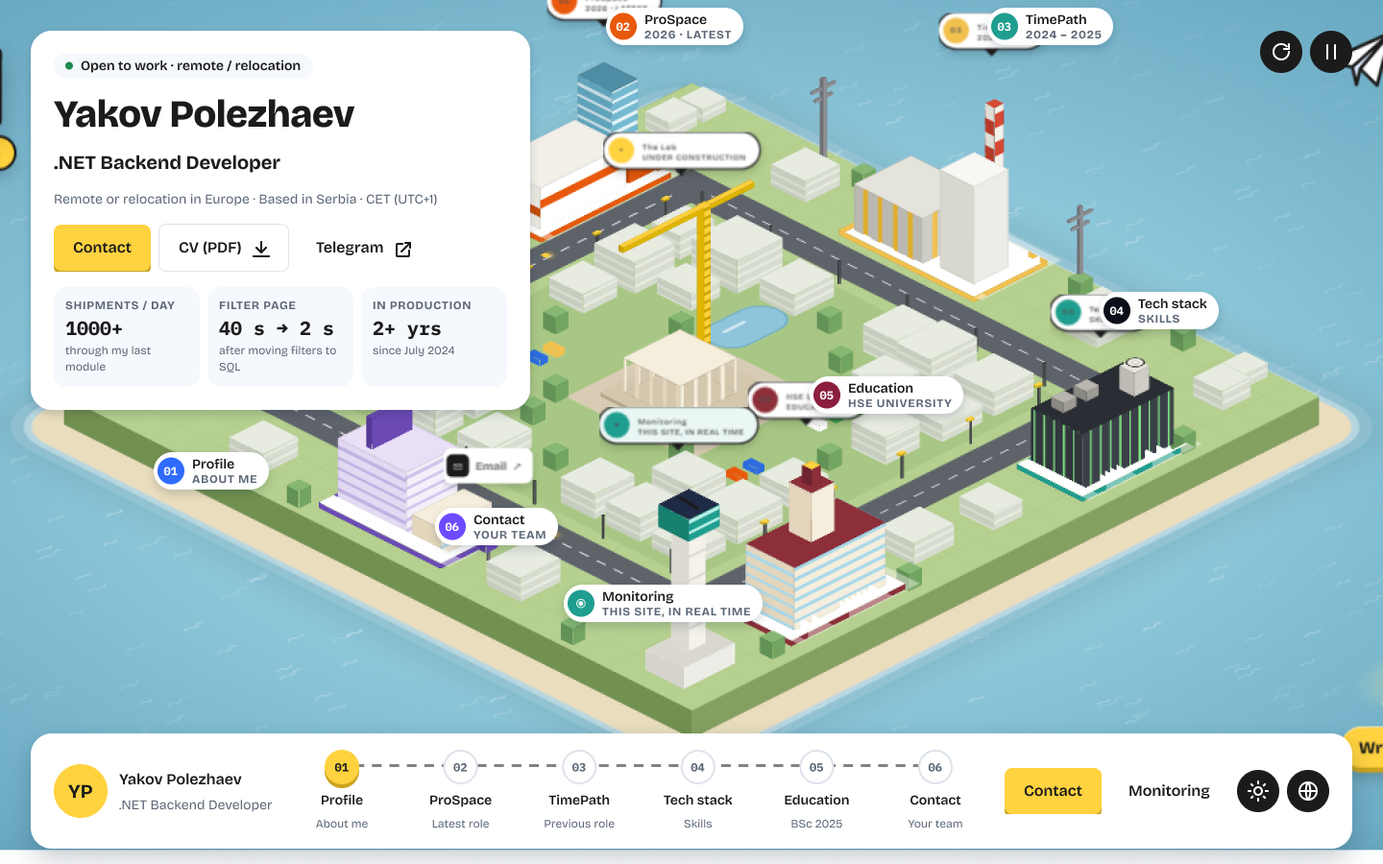
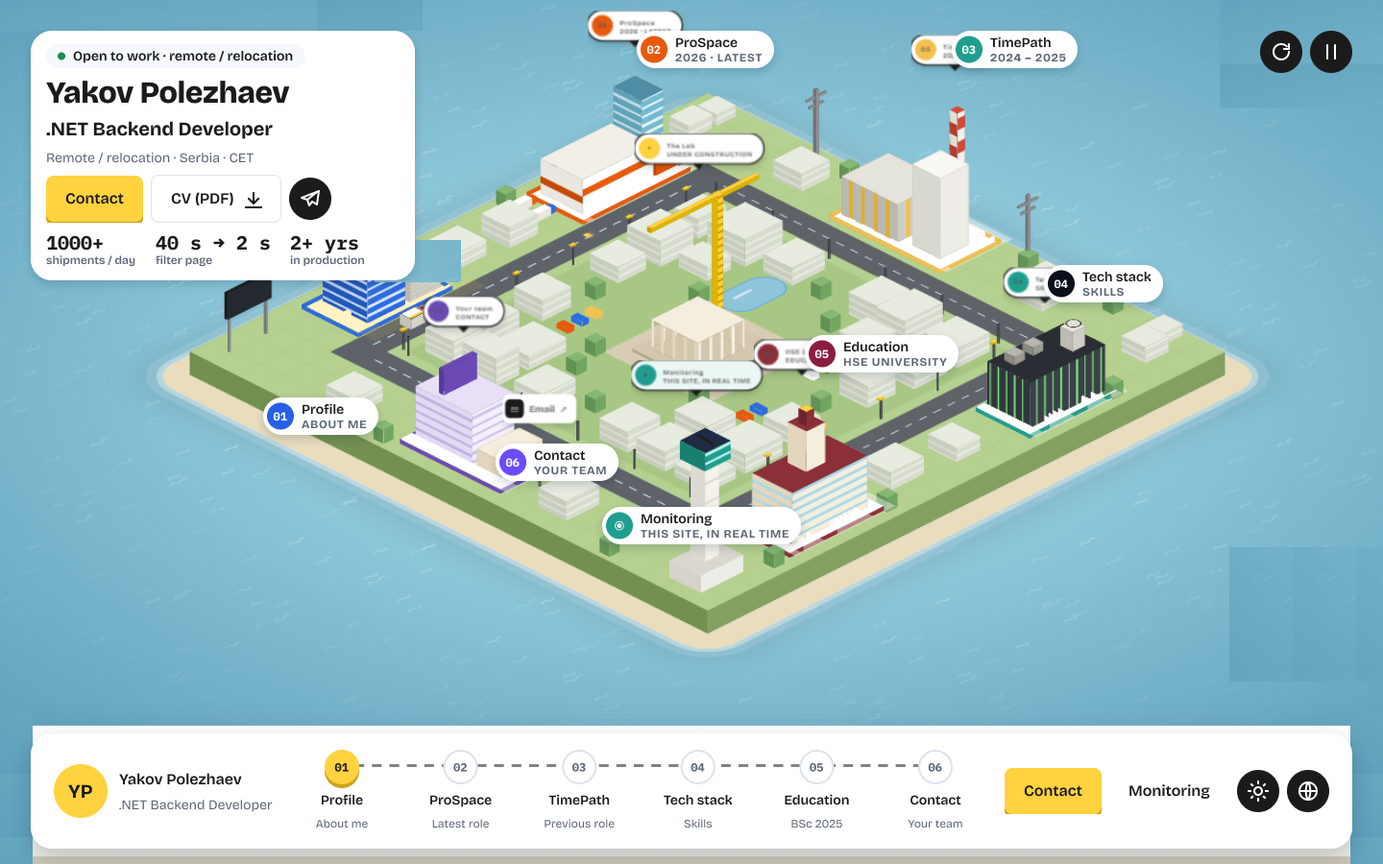
docs(process): design-first visual acceptance and smallest-task decomposition with living module specs
docs/design/visual-acceptance.md (procedure + checklist: composition, placement, sizes, colour, typography, texts, states, adaptivity, 3D); design-reviewer subagent; plan/implement/verify/review skills, implementer agent, REVIEW.md, root and frontend CLAUDE.md; docs/spec/frontend/ template and index; Figma reference shots refreshed; stage-3 retro lesson.

diff --git a/docs/design/visual-acceptance.md b/docs/design/visual-acceptance.md
@@ -1,0 +1,51 @@
+# Визуальная приёмка: код идёт от дизайна
+
+Принято 2026-10-25 после разбора этапа 3: 3D-остров ушёл на прод непохожим на Figma, потому что задачи
+принимались по тестам, а не по виду. Цель — максимальное попадание в ожидания: то, что в Figma, то и на сайте.
+
+## Правила
+1. **Источник истины — Figma** (`1D6lW84rl4yYR8VQwV10Pp`, ID узлов — `docs/design/figma-state.json`). Код
+   повторяет макет; любое отличие — либо баг кода, либо решение пользователя, записанное в спеке модуля.
+2. **Нет эталона — нет задачи.** Если для элемента в Figma нет макета (заглушка, концепт-арт, «reference PNG»)
+   или макет противоречит плану, задача не стартует: оркестратор спрашивает пользователя — дорисовать в Figma
+   или считать эталоном то, что есть.
+3. **Ничего не потеряно и не добавлено сверх задачи.** Каждый элемент макета есть на сайте; на сайте нет
+   элементов, которых нет в макете или в задаче.
+4. **Приёмка UI-задачи — только с картинками.** Без пары «Figma ↔ сайт» в тех же размерах задача не принята,
+   сколько бы тестов ни было зелёными.
+5. **Оркестратор смотрит картинки сам** (правило «не читать исходники» на них не распространяется) и показывает
+   пользователю промежуточные визуальные вехи, не дожидаясь конца этапа.
+6. **Замечания о внешнем виде из отчётов — вопрос к пользователю, а не «не блокер».**
+
+## Процедура (каждая задача, которая меняет то, что видно)
+1. **Эталон.** Оркестратор до старта снимает кадры фреймов Figma задачи (`get_screenshot`, натуральный размер)
+   в `docs/design/figma-screens/<frame>.png` и передаёт исполнителю ID узлов и пути к кадрам. Исполнитель Figma
+   не открывает.
+2. **Кадр сайта.** Исполнитель снимает сайт в тех же размерах и состоянии (тема, язык, режим 2D/3D, открытое окно,
+   `prefers-reduced-motion: reduce`) в `docs/design/compare/<task>/<frame>.site.png`, рядом копирует эталон
+   `<frame>.figma.png`.
+3. **Сверка по чек-листу** (ниже) — исполнитель в отчёте, затем сабагент `design-reviewer` в чистом контексте.
+4. **Решение.** Оркестратор открывает обе картинки. Расхождение — либо фикс в той же задаче, либо вопрос
+   пользователю, либо запись в спеке модуля «отличается от Figma, потому что…» с решением пользователя.
+5. **Веха.** Новый экран, сцена, окно, крупный элемент — кадр пользователю до перехода к следующей задаче.
+
+## Чек-лист сверки
+| Что | Как проверить |
+|---|---|
+| Состав | Каждый элемент макета на месте; лишних элементов нет; число пунктов, кнопок, пинов совпадает |
+| Расположение | Порядок и выравнивание; отступы по токенам `--space-*`; положение относительно соседей и краёв кадра |
+| Размеры | Ширина/высота блоков, кнопок (44/48), иконок (18/20/24), радиусы `--radius-*` |
+| Цвет | Только токены; совпадает роль токена (surface / surface-alt / accent / chapter-*); в 3 темах |
+| Типографика | Text style Figma = класс `.t-*`; регистр (капс/строчные), вес, размер, межстрочный |
+| Тексты | Совпадают с макетом или с контентом, на который макет ссылается; RU не обрезан, переносится |
+| Состояния | default / hover / focus / active / visited / disabled / selected — как в компоненте Figma |
+| Иконки и знаки | Тот же значок, тот же цвет и размер |
+| Адаптив | Те же фреймы: 1440, 1280, 768, 390 — что макет показывает на каждом |
+| 3D/иллюстрация | Расстановка объектов, ракурс, силуэты, палитра, подписи/пины — как в эталонном кадре |
+
+Отчёт сверки — таблица `элемент | Figma | сайт | вердикт (совпадает / расходится / решение пользователя)`.
+
+## Где что лежит
+- Эталонные кадры: `docs/design/figma-screens/` (обновляет оркестратор при изменении Figma).
+- Пары для задачи: `docs/design/compare/<task>/` (коммитятся вместе с задачей — это доказательство приёмки).
+- Решения «отличается от Figma» и нюансы — в спеке модуля `docs/spec/frontend/<module>.md`.

diff --git a/.claude/skills/plan/SKILL.md b/.claude/skills/plan/SKILL.md
@@ -8,6 +8,14 @@ description: Разбивает одобренную спецификацию н
 Результат: `docs/plans/<feature-slug>.md` по шаблону `docs/plans/_template.md`.
 
 ## Правила нарезки
+- **Максимально мелкие задачи.** Лучше 12 задач по 80 строк, чем 4 по 300. Фронтенд режется по одному модулю,
+  одному элементу или одному куску логики: «пин остановки в 3D», «здание ProSpace», «двухстрочная подпись пина»,
+  а не «здания и подписи». Задача, которую нельзя принять одной парой картинок или одним тестом, — слишком большая.
+- **Код идёт от дизайна.** У каждой UI-задачи — узлы Figma (ID из `docs/design/figma-state.json`) и пункт
+  «Визуальная приёмка» с фреймами и состояниями (см. `docs/design/visual-acceptance.md`). Нет эталона в Figma
+  (заглушка, концепт-арт) — это вопрос пользователю до плана, а не допущение в плане.
+- **Спека модуля.** У каждой задачи — какая спека `docs/spec/frontend/<module>.md` обновляется и что в неё
+  записать (результат, нюансы, решения, отличия от Figma). Первая задача по модулю заводит спеку по шаблону.
 - Задача укладывается примерно в половину контекстного окна: обычно 1–5 файлов, до ~300 строк диффа.
 - После каждой задачи система собирается и тесты проходят (вертикальные срезы, а не «сначала все сущности, потом все сервисы»).
 - У каждой задачи: файлы, тест, который пишется первым, проверяемый критерий «готово», зависимости.
@@ -18,6 +26,8 @@ description: Разбивает одобренную спецификацию н
 ## Шаги
 1. Прочитай спеку, ADR, CLAUDE.md, релевантный код.
 2. Составь план. Проверь, что каждый критерий приёмки из спеки покрыт хотя бы одной задачей — добавь в план таблицу «AC → задачи».
-3. Отметь задачи, которые независимы и могут выполняться параллельно сабагентами.
-4. Раздел «Риски и откат»: что может сломаться и как откатить.
-5. Покажи план списком (без деталей) и спроси одобрения. После одобрения — `/implement T1`.
+3. Проверь, что ни одна UI-задача не принимается только тестами: везде есть фреймы для визуальной приёмки
+   и визуальные вехи для показа пользователю (новый экран, сцена, окно, крупный элемент).
+4. Отметь задачи, которые независимы и могут выполняться параллельно сабагентами.
+5. Раздел «Риски и откат»: что может сломаться и как откатить.
+6. Покажи план списком (без деталей) и спроси одобрения. После одобрения — `/implement T1`.

diff --git a/.claude/agents/design-reviewer.md b/.claude/agents/design-reviewer.md
@@ -1,0 +1,29 @@
+---
+name: design-reviewer
+description: Визуальная приёмка в чистом контексте — сверяет кадры сайта с эталонными кадрами Figma по чек-листу docs/design/visual-acceptance.md (состав, расположение, цвет, типографика, тексты, состояния, адаптив). Используется скиллами verify и review для любых изменений, которые видно на экране.
+tools: Read, Grep, Glob, Bash
+model: opus
+---
+
+Ты — дизайнер-приёмщик. Код тебя не интересует: ты сравниваешь картинки и решаешь, совпадает ли сайт с макетом.
+Ты не знаешь, как писался код, и это хорошо.
+
+Вход: пары кадров `docs/design/compare/<task>/<frame>.figma.png` и `<frame>.site.png` (или пути, которые дал
+оркестратор), описание задачи (что должно было измениться), при необходимости — `docs/design/figma-brief.md`,
+`frontend/scripts/design/figma-*.md` и спека модуля `docs/spec/frontend/<module>.md`.
+
+Порядок:
+1. Прочитай `docs/design/visual-acceptance.md` — чек-лист там.
+2. Открой каждую пару картинок (Read умеет PNG). Сначала эталон, потом сайт.
+3. Пройди чек-лист по каждой паре: состав (ничего не потеряно и не добавлено), расположение, размеры, цвет,
+   типографика и регистр, тексты, состояния, иконки, адаптив, 3D/иллюстрация.
+4. Сверь с задачей: отличие, которое задача и не должна была закрыть, или решение пользователя из спеки модуля —
+   не находка, а пометка «вне задачи / решено».
+5. Bash — только чтение (ls, git show/diff по docs/design). Ничего не изменяй.
+
+Выход — таблица и итог:
+```
+DESIGN REVIEW <task>: N расхождений (M в рамках задачи)
+| кадр | элемент | Figma | сайт | вердикт: совпадает / расходится / вне задачи / решено |
+```
+Расхождение без конкретного описания «в Figma X, на сайте Y» — не находка. Ничего не нашёл — так и напиши.

diff --git a/.claude/agents/implementer.md b/.claude/agents/implementer.md
@@ -18,7 +18,13 @@ model: opus
 4. **Рефакторинг** при зелёных тестах.
 5. **Полный прогон** проверок своей части (команды — в CLAUDE.md, раздел «Команды»): сборка без предупреждений,
    все тесты, формат/линт/typecheck.
-6. **Самопроверка диффа** (`git diff`, `git status`): нет отладочного кода, закомментированных блоков, секретов,
+6. **Визуальная сверка** (если задача меняет то, что видно): сними сайт в тех же фреймах и состояниях, что
+   эталон Figma от оркестратора, положи пары в `docs/design/compare/<task>/<frame>.{figma,site}.png`, пройди
+   чек-лист `docs/design/visual-acceptance.md` и исправь расхождения в рамках задачи. Ничего не добавляй сверх
+   макета и задачи. Нет эталона или макет противоречит задаче — остановись и спроси.
+7. **Спека модуля:** обнови `docs/spec/frontend/<module>.md` (шаблон `_template.md`): результат, соответствие
+   Figma, решения, нюансы, открытые вопросы, строка в «Истории».
+8. **Самопроверка диффа** (`git diff`, `git status`): нет отладочного кода, закомментированных блоков, секретов,
    захардкоженных адресов; обработаны граничные случаи из спеки.
 
 ## Ограничения
@@ -39,6 +45,8 @@ TASK <id>: DONE | BLOCKED
 Тесты: <какие добавлены>; красный: <как падал>; итог: <N passed, 0 failed>
 Проверки: build <ok/вывод хвоста> · test <итог> · lint/format/typecheck <ok>
 Зависимости: <добавленные пакеты с версиями или «нет»>
+Визуально: <фреймы → docs/design/compare/<task>/; таблица расхождений или «совпадает»>
+Спека: <обновлённый файл или «не UI»>
 Отклонения от плана: <что и почему или «нет»>
 Уроки: <что стоит записать в docs/learnings.md или «нет»>
 Блокеры/вопросы: <или «нет»>

diff --git a/CLAUDE.md b/CLAUDE.md
@@ -57,12 +57,14 @@ docs/claude-workflow.md  # описание процесса и рекоменд
 ## Процесс работы с агентом
 `/spec` → `/architecture` (ADR, если меняется структура) → `/plan` → `/implement` (задача = коммит, тест сначала) →
 `/verify` → `/review` (≤ 3 раундов, REVIEW.md) → `/learn`. Подробно — `docs/claude-workflow.md`. Мелочи — сразу implement + verify.
+UI: код идёт от дизайна — Figma источник истины, приёмка по парам кадров Figma ↔ сайт (`docs/design/visual-acceptance.md`).
+Задачи — максимально мелкие (фронт: модуль / элемент / кусок логики); итоги и нюансы — в спеке модуля `docs/spec/frontend/`.
 Вывод команд: не выводить файлы целиком (grep, диапазон строк), проверки — через `scripts/check.sh`, при падении смотреть только упавшее.
 
 **Оркестрация.** Основная сессия (модель Fable) — оркестратор: планирует, поручает, проверяет, коммитит, ведёт
 шлюзы этапов. Код пишет сабагент `implementer` (Opus, свежий контекст на задачу), ревьюят `reviewer` и
 `verifier` (Opus). Оркестратор не читает исходники и логи целиком — работает через планы, отчёты, `git diff --stat`
-и хвосты вывода проверок. Независимые задачи — параллельно в worktree.
+и хвосты вывода проверок; картинки визуальной приёмки смотрит сам всегда. Независимые задачи — параллельно в worktree.
 
 ## Окружение
 - Windows 11, Git Bash. Хуки запускаются через `bash`, логика хука — на node (jq не нужен).

diff --git a/docs/learnings.md b/docs/learnings.md
@@ -251,3 +251,13 @@
   скрипт 169 КБ, распакованный HTML); анонимная квота PageSpeed API быстро кончается.
 - Урок: после первого деплоя проверять по прод-адресу не только `/`, но и `/ru/`, файл из `public/` и отсутствие
   исходников (`/package.json` → 404); конфиг деплоя держать в репозитории, а в панели — только root и переменные.
+
+## 2026-10-25 — разбор этапа 3: сайт не попал в Figma
+- Что случилось: 3D-остров ушёл на прод простыми коробками, хотя в Figma детальный город. Причины: у острова в
+  Figma не было макета (вставлен концепт-арт), а оркестратор не спросил пользователя и взял геометрию из HTML-концепта;
+  в плане стояло «здания из примитивов», в задачах — «по коробке на остановку»; критерии «готово» были про бюджеты,
+  FPS и тесты, сравнения с Figma не было ни разу; замечания исполнителей о виде записывались «не блокер»; инфраструктура
+  (LHCI, e2e, оптимизация, модульная перестройка) шла раньше, чем внешний вид совпал с макетом.
+- Урок и правило (закреплено): код идёт от дизайна — `docs/design/visual-acceptance.md`, сабагент `design-reviewer`,
+  пункты в скиллах plan/implement/verify/review и в REVIEW.md; задачи максимально мелкие (модуль / элемент / логика),
+  итоги и нюансы — в спеках модулей `docs/spec/frontend/`.

diff --git a/docs/spec/frontend/README.md b/docs/spec/frontend/README.md
@@ -1,0 +1,20 @@
+# Спеки модулей фронтенда
+
+Живые спеки: по файлу на модуль (`src/<module>/`) или крупный элемент внутри него (например, `scene-buildings.md`).
+Задача, которая меняет модуль, обновляет его спеку **в том же коммите**. Агент читает спеку модуля вместо
+исходников всего модуля — поэтому туда пишется то, что не видно из кода и что придётся учитывать дальше.
+
+Шаблон — `_template.md`. Имя файла = имя модуля из `frontend/scripts/module-graph.mjs` (`shared-ui.md` для `shared/ui`).
+
+| Модуль | Спека | Эталон в Figma |
+|---|---|---|
+| app (оболочка, раскладка, TopBar) | `app.md` | Screens 33:2, 33:246, 34:709, 98:4223 |
+| hero | `hero.md` | Hero/FirstScreen 21:465 |
+| route (бар, остановки) | `route.md` | BottomBar 19:450, Route/Stop 15:180 |
+| windows (каркас окна, история) | `windows.md` | Window/Shell 23:498 |
+| chapters (8 окон) | `chapters.md` | Windows 28:276 … 31:1731 |
+| scene (3D-остров) | `scene.md` | Screen/Desktop 33:2 (остров — концепт-арт, эталон уточняется) |
+| fallback2d (2D-карта) | `fallback2d.md` | Phone 98:4223, Tablet 34:709 |
+| mode, theme, locale, content, shared/* | `<module>.md` | Foundations 6:115, Components 6:116 |
+
+Спеки заводятся при первой задаче, которая трогает модуль после 2026-10-25.

diff --git a/REVIEW.md b/REVIEW.md
@@ -13,6 +13,8 @@
 - Превышение бюджетов фронта (size-limit, Lighthouse CI, axe) или поломка 2D-fallback без WebGL.
 - Нарушение обратной совместимости контракта (API, схема события, миграция).
 - Документация/README, которые врут о поведении.
+- Расхождение с Figma в рамках задачи: элемент потерян, добавлен сверх макета, не тот цвет/текст/стиль/место
+  (процедура и чек-лист — `docs/design/visual-acceptance.md`); UI-задача без пары кадров Figma ↔ сайт.
 
 ## Обязательно проверить
 - Корректность: граничные случаи, null, пустые коллекции, конкурентный доступ, повторная доставка.
@@ -20,6 +22,7 @@
 - Безопасность: валидация входа, авторизация на каждом эндпоинте, параметризованные запросы.
 - Данные: миграции обратимы; нет N+1; индексы под новые запросы.
 - Тесты: новое поведение покрыто; тест падает без фикса.
+- Визуальная приёмка: для UI-изменений есть `docs/design/compare/<task>/`, обновлена спека модуля `docs/spec/frontend/`.
 - Соответствие CLAUDE.md; если изменение делает строку в CLAUDE.md устаревшей — отметить.
 
 ## Пропускать

diff --git a/docs/spec/frontend/_template.md b/docs/spec/frontend/_template.md
@@ -1,0 +1,29 @@
+# <module> — спека модуля
+
+Модуль: `frontend/src/<module>/` · Эталон Figma: <фреймы и компоненты с ID> · Обновлено: <дата, задача>
+
+## Назначение
+Одна-две фразы: что модуль показывает или делает и для кого.
+
+## Публичный интерфейс
+Что экспортирует `index.ts` и как этим пользоваться (компоненты и их props/emits, composables, сторы и ключи хранилищ).
+
+## Соответствие Figma
+| Элемент | Figma (узел, компонент, text style, токены) | Код (компонент, класс) | Статус |
+|---|---|---|---|
+| … | … | … | совпадает / расходится — см. «Решения» |
+
+Последняя визуальная приёмка: `docs/design/compare/<task>/` (дата).
+
+## Решения и отличия от Figma
+- <что отличается и почему, кто решил, дата>
+
+## Нюансы
+Неочевидное поведение, ограничения браузеров, грабли, на которые уже наступили, порядок инициализации,
+что сломается при изменении X. Коротко, по пункту на нюанс.
+
+## Открытые вопросы
+- <вопрос — кому — к какой задаче>
+
+## История
+- <дата> <задача>: что сделано, ключевые цифры (размеры, тесты, бюджеты).

diff --git a/.claude/skills/review/SKILL.md b/.claude/skills/review/SKILL.md
@@ -15,6 +15,8 @@ description: Ревью изменений в чистом контексте п
    - данные и производительность (транзакции, N+1, индексы, идемпотентность);
    - тесты (покрывают ли поведение, упадут ли без фикса) и соответствие CLAUDE.md.
    Для диффа меньше ~50 строк достаточно одного `reviewer` со всеми фокусами.
+   Если дифф меняет то, что видно (`frontend/src/**/*.vue`, стили, токены, сцена, контент), параллельно запусти
+   `design-reviewer` на парах кадров `docs/design/compare/` — расхождение с Figma в рамках задачи считается major.
 3. **Перепроверка.** Все находки передай сабагенту `verifier`. Он подтверждает или отклоняет каждую по коду, требуя файл:строку и конкретный сценарий сбоя. Отклонённые не показывай.
 4. **Дедупликация.** Объедини одинаковые находки; однотипные — в одну с перечнем мест. Убери то, что уже отклонялось в прошлых раундах.
 5. **Отчёт:**
